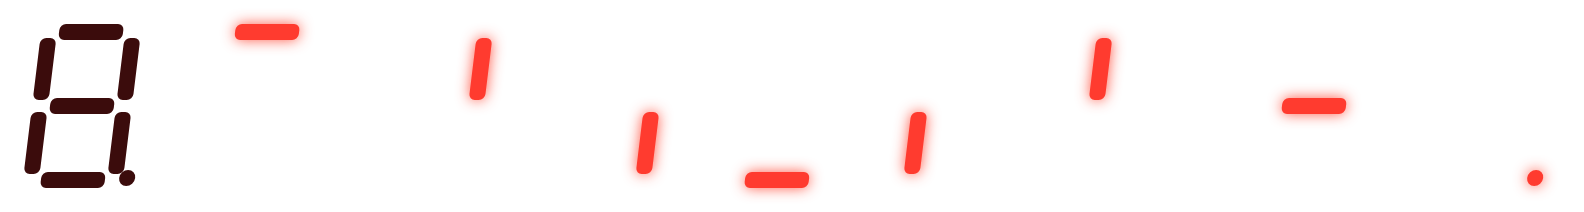
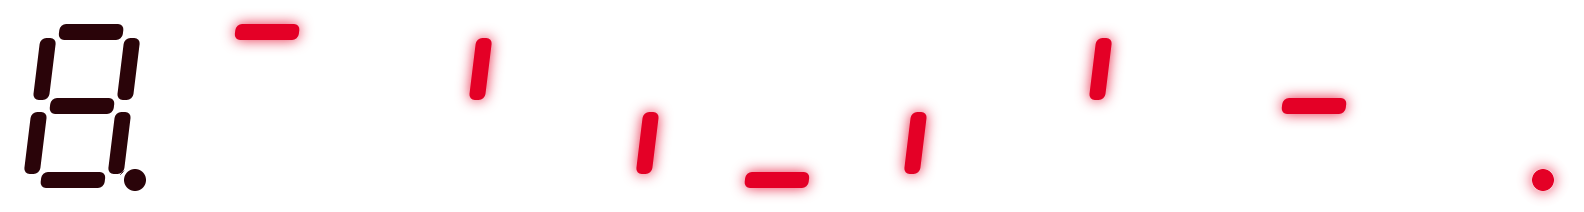
Default skin: display digits on the measured size and spacing, darker red, round decimal point
Digits 71 x 86 dp on a 64 dp pitch from 497,262 dp (measured on the straight-on photo), so they
no longer crowd each other. Lit segments a darker red; the unlit outlines a little brighter than the
window so they show; the decimal point a round dot to the right of the digit's lower end.

Claude-Session: https://claude.ai/code/session_01Q7FbhE96LhBe7hm4VghwjZ

diff --git a/plugin/skin/tests/skin_test.cpp b/plugin/skin/tests/skin_test.cpp
@@ -173,7 +173,7 @@ int main() {
         // the Program button sits where the art has it: 359,271 .. 481,330 dp
         d.mouseMove(420, 300, 0); d.mouseDown(0, 0); d.mouseUp(0, 0);
         CHECK(p2.log.size() >= 2 && p2.log[p2.log.size() - 2] == "button 1 down", "Program button at its place");
-        // the display (496,248 .. 758,354 dp) starts typed program entry
+        // the display (497,262 .. 760,348 dp) starts typed program entry
         d.mouseMove(620, 300, 0); d.mouseDown(0, 0); d.mouseUp(0, 0);
         CHECK(!p2.log.empty() && p2.log.back() == "action program_entry", "display: %s", p2.log.empty() ? "" : p2.log.back().c_str());
         // the BANKS label (134,15 .. 226,49 dp) opens the Banks window and is lit while it is open
